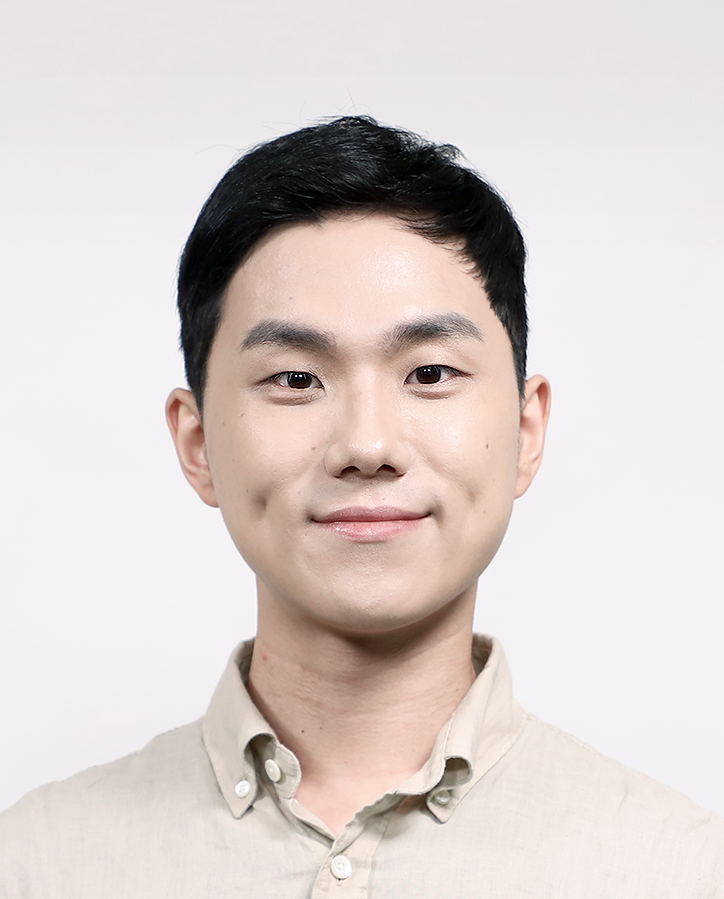
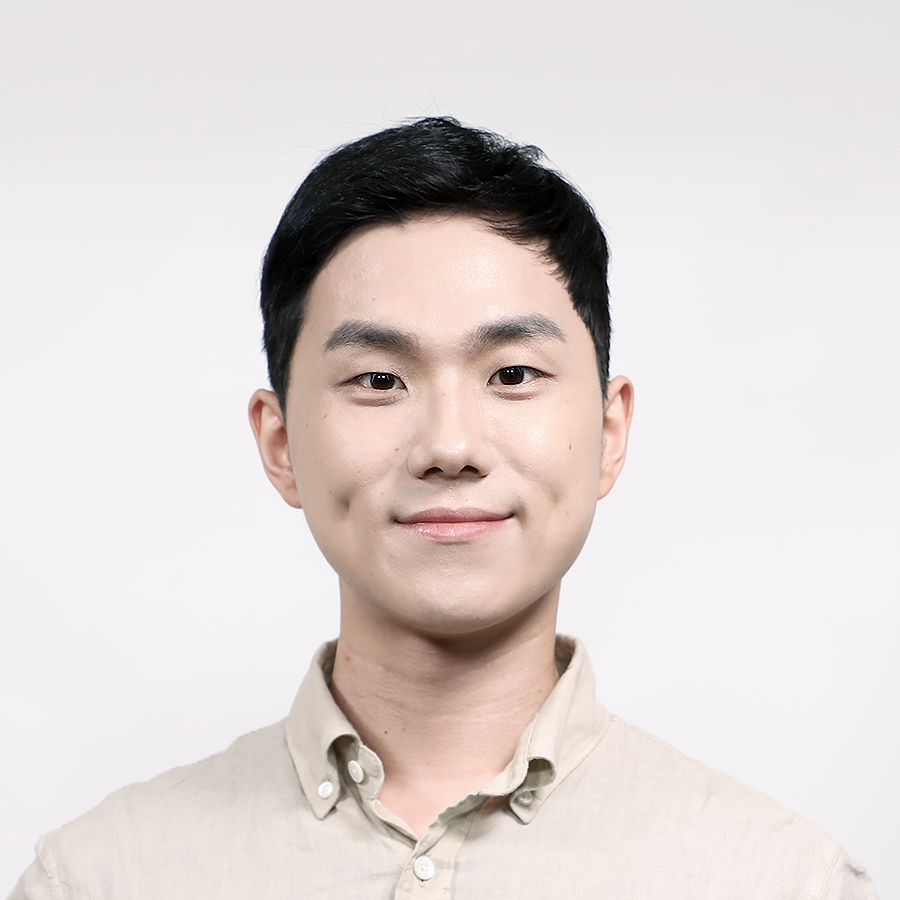
update photo and margin

diff --git a/_sass/_base.scss b/_sass/_base.scss
@@ -58,7 +58,7 @@ blockquote {
 }
 
 .profile {
-  margin-top: -1.5rem;
+  margin-top: 0rem;
   margin-left: 1rem;
   margin-bottom: 1rem;
   width: 100%;
